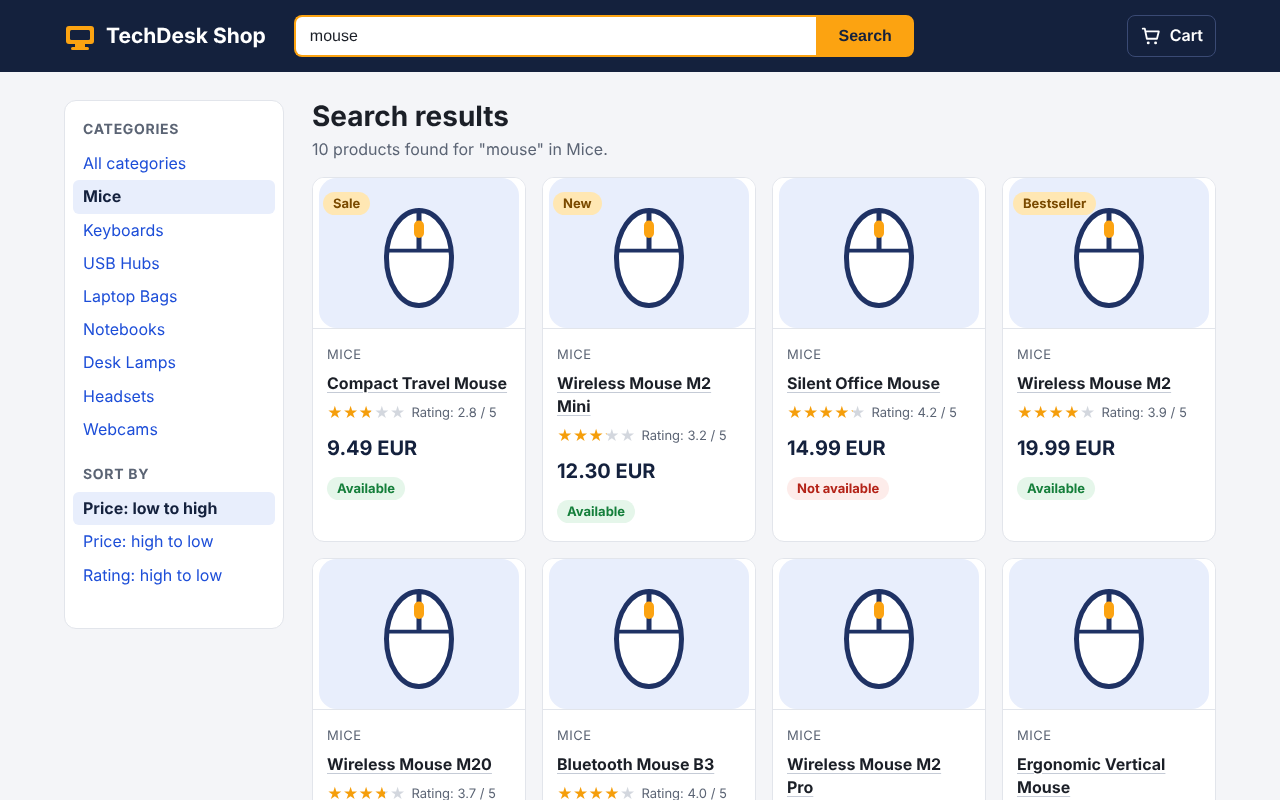
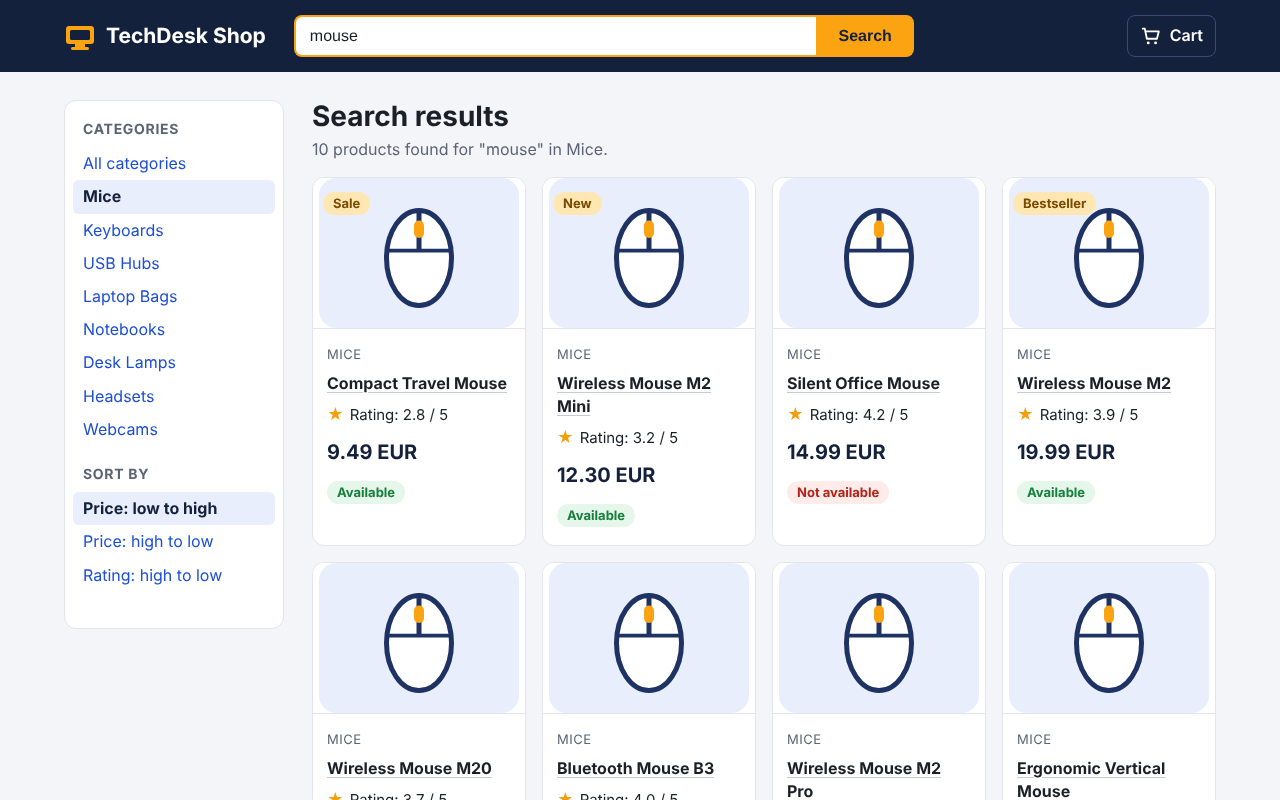
Fix review findings on the redesign
- Remove the star-bar rating graphic: it rounded 3.9 to four full stars, a
  misleading cue only the visual pipeline would see. Rating shown as text
  with one constant decorative star.
- Hide Chromium's hover-only controls (number spinners, search clear
  button) so screenshots do not depend on the cursor position.
- Registered users get random ids so a pre-reset session cookie cannot
  open a newly registered account's cart (BR1); register no longer strips
  whitespace (same handling as login).
- Browser test waits for the load event before taking the thesis figures.
- thesis_notes: claims corrected to match code; review problems recorded.

Claude-Session: https://claude.ai/code/session_01ExPydLEy8Kda9nPS1RUQRM

diff --git a/shop/static/style.css b/shop/static/style.css
@@ -84,7 +84,9 @@ input[type=text], input[type=password], input[type=number] {
   height: 40px; padding: 0 10px; font-size: 16px; color: var(--text); background: #fff;
   border: 1px solid #b9c0cc; border-radius: 8px;
 }
-input[type=number] { width: 76px; }
+input[type=number] { width: 76px; -moz-appearance: textfield; }
+input[type=number]::-webkit-inner-spin-button, input[type=number]::-webkit-outer-spin-button { -webkit-appearance: none; margin: 0; }
+input[type=search]::-webkit-search-cancel-button { -webkit-appearance: none; }
 .field { display: flex; flex-direction: column; gap: 6px; margin: 0 0 14px; }
 .field label { font-weight: 600; }
 .field-inline { flex-direction: row; align-items: center; gap: 10px; margin: 0; }
@@ -98,13 +100,10 @@ input[type=number] { width: 76px; }
 .product-category { color: var(--muted); font-size: 13px; text-transform: uppercase; letter-spacing: .04em; }
 .price { font-size: 20px; font-weight: 700; color: var(--navy); }
 .price-large { font-size: 32px; margin: 10px 0; }
-.rating { font-size: 13px; color: var(--muted); display: flex; align-items: center; gap: 6px; white-space: nowrap; }
-.stars { font-size: 15px; letter-spacing: 0; line-height: 1; }
-.stars::before {
-  content: "\2605\2605\2605\2605\2605";
-  background: linear-gradient(90deg, #f59e0b calc(var(--rating) / 5 * 100%), #d3d7de 0);
-  -webkit-background-clip: text; background-clip: text; color: transparent;
-}
+.rating { font-size: 15px; color: var(--text); display: flex; align-items: center; gap: 6px; white-space: nowrap; }
+/* One constant star as decoration only. The rating value is shown as text and never drawn
+   as a partial star bar: a graphic rounds 3.9 to "4 stars", a cue only the visual agent would get. */
+.star-icon::before { content: "\2605"; color: #f59e0b; font-size: 16px; }
 .availability { display: inline-block; font-size: 13px; font-weight: 700; padding: 2px 10px; border-radius: 999px; margin-top: 6px; }
 .is-available { color: var(--ok); background: var(--ok-bg); }
 .is-unavailable { color: var(--bad); background: var(--bad-bg); }

diff --git a/shop/templates/_stars.html b/shop/templates/_stars.html
@@ -1,1 +1,1 @@
-<p class="rating"><span class="stars" style="--rating: {{ rating }}" aria-hidden="true"></span> Rating: {{ "%.1f" | format(rating) }} / 5</p>
+<p class="rating"><span class="star-icon" aria-hidden="true"></span> Rating: {{ "%.1f" | format(rating) }} / 5</p>

diff --git a/tests/test_register.py b/tests/test_register.py
@@ -3,7 +3,7 @@
 import pytest
 from fastapi.testclient import TestClient
 
-from shop import db, service, state_reader
+from shop import db, reset, service, state_reader
 from shop.app import app
 from tests.conftest import notice
 
@@ -34,6 +34,7 @@ def test_registered_user_can_log_in_again(shop_db):
 @pytest.mark.parametrize("username, password, repeat, message", [
     ("ab", "correct-horse", None, "Username must be 3 to 30 characters: letters, digits, dot, dash or underscore."),
     ("bad name", "correct-horse", None, "Username must be 3 to 30 characters: letters, digits, dot, dash or underscore."),
+    (" alice_01", "correct-horse", None, "Username must be 3 to 30 characters: letters, digits, dot, dash or underscore."),
     ("alice_01", "short", None, "Password must be at least 8 characters long."),
     ("alice_01", "correct-horse", "other-horse", "The two passwords do not match."),
     (db.TEST_USERNAME, "correct-horse", None, f"The username {db.TEST_USERNAME} is already taken."),
@@ -43,6 +44,19 @@ def test_register_rejections(shop_db, username, password, repeat, message):
     assert r.status_code == 422
     assert notice(r.text) == message
     assert f'value="{username}"' in r.text  # the typed username is kept, passwords are not
+
+
+def test_old_session_cannot_open_a_new_account_after_reset(shop_db):
+    """BR1: ids of deleted accounts are not reused, so a cookie from before a reset opens nothing."""
+    alice = TestClient(app)
+    _register(alice, "alice_01")
+    alice.post("/api/cart/items", json={"product_id": 101, "quantity": 1})
+    reset.reset()
+    bob = TestClient(app)
+    _register(bob, "bob_02")
+    bob.post("/api/cart/items", json={"product_id": 502, "quantity": 3})
+    r = alice.get("/api/cart")
+    assert r.status_code == 401 and r.json()["error"]["rule"] == "BR1"
 
 
 def test_passwords_are_salted_hashes(shop_db):

diff --git a/shop/service.py b/shop/service.py
@@ -23,6 +23,8 @@ import secrets
 import sqlite3
 from datetime import datetime, timezone
 
+from shop import db
+
 MAX_QTY = 10
 
 SORT_OPTIONS = {
@@ -195,7 +197,7 @@ def register(conn: sqlite3.Connection, username, password, password_repeat) -> i
     page (the runner logs in before the run), and there is no API route for it.
     Accounts live in shop.db and are deleted by every reset.
     """
-    username = str(username or "").strip()
+    username = str(username or "")
     password = str(password or "")
     if not re.fullmatch(USERNAME_PATTERN, username):
         raise RegistrationError(
@@ -207,10 +209,14 @@ def register(conn: sqlite3.Connection, username, password, password_repeat) -> i
         raise RegistrationError("The two passwords do not match.")
     if conn.execute("SELECT 1 FROM users WHERE username = ?", (username,)).fetchone():
         raise RegistrationError(f"The username {username} is already taken.")
+    # Random id instead of the next rowid: after a reset the ids of deleted accounts would be
+    # handed out again, and an old session cookie would then open another person's cart (BR1).
+    user_id = secrets.randbelow(2**62) + db.TEST_USER_ID + 1
     with conn:
-        user_id = conn.execute(
-            "INSERT INTO users (username, password_hash) VALUES (?, ?)", (username, hash_password(password))
-        ).lastrowid
+        conn.execute(
+            "INSERT INTO users (id, username, password_hash) VALUES (?, ?, ?)",
+            (user_id, username, hash_password(password)),
+        )
         conn.execute("INSERT INTO carts (user_id) VALUES (?)", (user_id,))
     return user_id
 

diff --git a/tests/test_browser.py b/tests/test_browser.py
@@ -66,6 +66,7 @@ def test_full_flow_in_browser(page):
     names = page.locator(".results h3").all_inner_texts()
     assert names[0] == "Compact Travel Mouse" and "Gaming Mouse G5" == names[-1]
     FIGURES.mkdir(parents=True, exist_ok=True)
+    page.wait_for_load_state("load")  # images loaded before the figure is taken
     page.screenshot(path=FIGURES / "search_results.png")
 
     # product detail: unavailable product is rejected by the core (BR2)
@@ -95,6 +96,7 @@ def test_full_flow_in_browser(page):
     page.get_by_role("button", name="Update").first.click()
     assert notice(page) is None
     assert "Total: 83.75 EUR" in page.inner_text("main")
+    page.wait_for_load_state("load")
     page.screenshot(path=FIGURES / "cart.png")
 
     # remove, checkout, confirm

diff --git a/tests/test_fields.py b/tests/test_fields.py
@@ -77,7 +77,7 @@ def test_no_agent_specific_attributes(client):
     for url in ("/login", "/register", "/", "/search?q=mouse", "/products/101", "/cart", "/checkout"):
         html = client.get(url).text
         assert "data-testid" not in html and "data-" not in html
-        assert "<script" not in html
+        assert "<script" not in html and "loading=" not in html and "<dialog" not in html
         for field_id in re.findall(r'<input type="(?:text|password|search|number)" id="([^"]+)"', html):
             assert f'<label for="{field_id}"' in html
     css = re.sub(r"/\*.*?\*/", "", client.get("/static/style.css").text, flags=re.S)  # rules only, no comments

diff --git a/shop/routes_html.py b/shop/routes_html.py
@@ -22,7 +22,8 @@ PRODUCT_PHOTOS = db.SHOP_DIR / "static" / "products"
 
 
 def _image_url(product: dict) -> str:
-    """Product photo ``static/products/<id>.jpg`` if present, else the category illustration."""
+    """Product photo ``static/products/<id>.jpg`` if present, else the category illustration
+    (or a generic product illustration for cart items, which carry no category)."""
     product_id = product.get("id", product.get("product_id"))
     if (PRODUCT_PHOTOS / f"{product_id}.jpg").exists():
         return f"/static/products/{product_id}.jpg"

diff --git a/docs/thesis_notes.md b/docs/thesis_notes.md
@@ -83,38 +83,40 @@ Passwords are stored as salted PBKDF2-SHA256 hashes (200,000 iterations, Python 
 `reset(task)` copies `snapshot.db` to a temporary file and atomically replaces `shop.db` (`os.replace`), so a running server never opens a half-copied file; then it inserts `initial_state.cart` directly with SQL. Pre-filled carts deliberately bypass the business rules so that a task can start with e.g. an unavailable item (needed for C6). The server opens a new SQLite connection per request, so it sees the reset immediately without restart.
 
 ### D13 Visual design of the shop
-Requested by the author after M1 ("make it look like a real shop"). The design is a typical small online shop: dark header with logo, search field and cart link; start page with a banner and category tiles; results as a grid of product cards (image, category, name, star rating, price, availability, badge) with a filter/sort sidebar; two-column product page; cart with an order-summary card; centred login/registration cards.
+Requested by the author after M1 ("make it look like a real shop"). The design is a typical small online shop: dark header with logo, search field and cart link; start page with a banner and category tiles; results as a grid of product cards (image, category, name, rating, price, availability, badge) with a filter/sort sidebar; two-column product page; cart with an order-summary card; centred login/registration cards.
 Constraints applied so that the design does not disturb the experiment:
-- No JavaScript, no animations or transitions, no web fonts (system font stack only; no network during experiments), no lazy loading, no pop-ups. Checked by `tests/test_fields.py`.
-- No `:hover` styles. The visual agent's mouse stays where it last clicked, so hover effects would change later screenshots depending on cursor position.
+- No JavaScript, no animations or transitions, no web fonts (system font stack only; no network during experiments), no lazy loading, no pop-ups. `tests/test_fields.py` checks that no page contains `<script`, `loading=` or `<dialog`, and that `style.css` has no hover, transition, animation, `@font-face`, `@import` or `url()` rules.
+- No `:hover` styles. The visual agent's mouse stays where it last clicked, so hover effects would change later screenshots depending on cursor position. For the same reason the browser's own hover controls are hidden: the spin arrows of number fields and the clear button of the search field (Chromium shows them only while the cursor is over the field).
 - Clearly visible focus outline on inputs, so the visual agent can see which field receives `type(text)`.
 - No information beyond the API fields (D8). In particular: no cart item counter in the header (the tool agent only learns the cart through `get_cart`), no "only n left" messages, no ads (D15), no log-out link (a browser agent could end its own session, which the tool agent cannot).
-- Star ratings are drawn by CSS from the numeric rating and marked `aria-hidden`; the number ("Rating: 3.9 / 5") is always shown as text. The product image in a result card links to the product (like real shops) but is `aria-hidden` with `tabindex=-1`, because it duplicates the name link; decorative SVGs (logo, icons) are `aria-hidden`. Images have `alt=""` because the product name is always next to them. So the DOM pipeline sees the same information without duplicates.
+- No star-bar rating graphic. The rating is shown as text ("Rating: 3.9 / 5") next to one constant, decorative star icon (`aria-hidden`). A first version drew five partially filled stars from the rating; the review found that at 15 px the fill rounds to whole stars, so 3.9 looked exactly like 4.0. Only the visual pipeline would see that graphic, and it misstates the attribute the rating tasks test (product 101 is designed as "just below 4.0"), so it was removed. The product image in a result card links to the product (like real shops) but is `aria-hidden` with `tabindex=-1`, because it duplicates the name link; decorative SVGs (logo, icons) are `aria-hidden`. Images have `alt=""` because the product name is always next to them. So the DOM pipeline sees the same information without duplicates.
 - Added navigation: search field in the header of every page (the tool agent can always call `search_products`), breadcrumb (Home / category) on the product page, "Continue shopping" link on the confirmation page.
 The new design applies to both browser-based pipelines alike; the tool pipeline is unaffected.
 
 ### D14 Registration page (people only)
-Requested by the author. `/register` (username, password, repeat password) is linked only from the login page; on success the new user is logged in and gets an empty cart. Validation lives in `service.register` (username 3-30 characters of letters, digits, `.`, `-`, `_`; password at least 8 characters; passwords equal; username not taken).
+Requested by the author. `/register` (username, password, repeat password) is linked only from the login page; on success the new user is logged in and gets an empty cart. New users get a random id (not the next row id), so that after a reset an old session cookie can never point to a different, newly registered account (BR1). Validation lives in `service.register` (username 3-30 characters of letters, digits, `.`, `-`, `_`; password at least 8 characters; passwords equal; username not taken).
 It is not part of the experiment: agents never see the login page (the runner logs in before the run), there is no API route for it, and every reset deletes all registered accounts (reset copies `snapshot.db`, which contains only the test user).
 
 ### D15 No advertisements
 The author asked for an ad-supported look and then decided against ads: ad banners would appear only in the two browser pipelines (the tool agent's JSON never contains them), so the interface would no longer be the only difference between conditions.
 
 ### D16 Product images
-Decision of the author: real product photos. Status: **pending**. The development environment's network policy blocks the image sources (Wikimedia Commons, Openverse, Pexels, Unsplash), so no photos have been added yet. The shop already looks for `shop/static/products/<id>.jpg` and falls back to a colour illustration of the product's category (one SVG per category, no text). Requirements for the photos when they are added: freely licensed with source and licence recorded in `shop/static/products/CREDITS.md`, stored in the repository (no network at experiment time), no text, logos or prices visible in the image.
+Decision of the author: real product photos. Status: **pending**. The development environment's network policy blocks the image sources (Wikimedia Commons, Openverse, Pexels, Unsplash), so no photos have been added yet. The shop already looks for `shop/static/products/<id>.jpg` and falls back to a colour illustration of the product's category (one SVG per category, no text) on the start, results and product pages, and to a generic product illustration (`icons/product.svg`) in the cart, whose items carry no category (D8). Requirements for the photos when they are added: freely licensed with source and licence recorded in `shop/static/products/CREDITS.md`, stored in the repository (no network at experiment time), no text, logos or prices visible in the image.
 
 ## 3. Deviations from the specification
 
 - D3: no `<select>` elements in the shop (category filter and sort as links); affects the DOM action `select`.
 - D9: one extra read-only helper `categories()` in `service.py` besides the seven service functions + login.
 - D14: an extra service function `register()` and a registration page (people only, not reachable by agents).
-- D16: product images: category illustrations now, real photos planned, instead of "neutral category icon only".
+- D16: product images: category illustrations (generic illustration in the cart) now, real photos planned, instead of "neutral category icon only".
 
 ## 4. Problems encountered (problem, cause, solution)
 
 - **Browser history after a rejected form submission.** Observed in the browser test: after a rejected "Add to cart", one *Back* returns to the product page (the rejected POST result is its own history entry), not to the results list. Relevant for the `go_back()` action of the DOM and visual pipelines; no change made, since this is normal browser behaviour and identical for both browser-based pipelines.
 
-- **Category images missing from a screenshot.** A screenshot taken right after clicking "Log in" showed six of eight category tiles without their image. Cause: Playwright's `click()` returns once the navigation has started; the page's images had not finished loading. Solution for the screenshots and the browser tests: wait for the `load` event. Consequence for M3: both browser pipelines must wait for the `load` event after every action before the next observation (as the specification already requires).
+- **Category images missing from a screenshot.** A screenshot taken right after clicking "Log in" showed six of eight category tiles without their image. Cause: Playwright's `click()` returns once the navigation has started; the page's images had not finished loading. Solution: the browser test waits for the `load` event before taking the thesis figures. Consequence for M3: both browser pipelines must wait for the `load` event after every action before the next observation (as the specification already requires).
+- **Star graphic misstated ratings near the threshold.** Found by a review of the redesign: the CSS star bar rendered 3.9 and 4.0 almost pixel-identical (one pixel difference). Cause: five star glyphs at 15 px cannot show 0.1 steps. Solution: star bar removed, rating shown as text (D13).
+- **Reused user ids after reset.** Found by the same review: SQLite gives a new account the next free row id, and reset deletes all registered accounts, so a newly registered account after a reset got the same id as an earlier one, and the earlier account's session cookie opened the new account's cart. Solution: random ids for registered users (D14); test `test_old_session_cannot_open_a_new_account_after_reset`.
 - **Image sources blocked.** Downloading product photos failed: the network policy of the development environment denies Wikimedia Commons, Openverse, Pexels and Unsplash (HTTP 403 at the proxy). Photos are pending (D16).
 
 ## 5. Open questions
